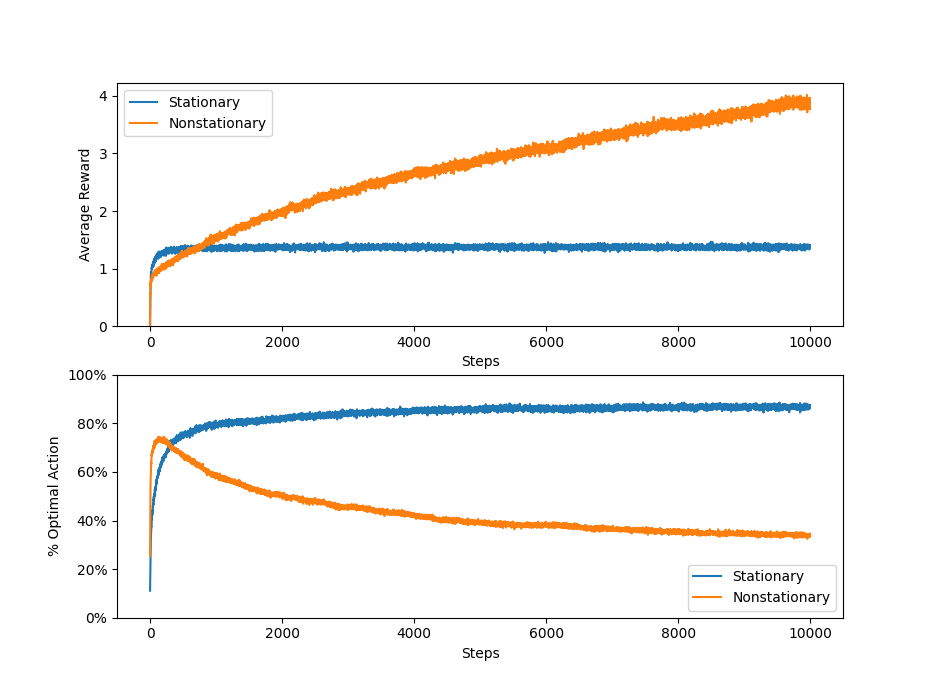
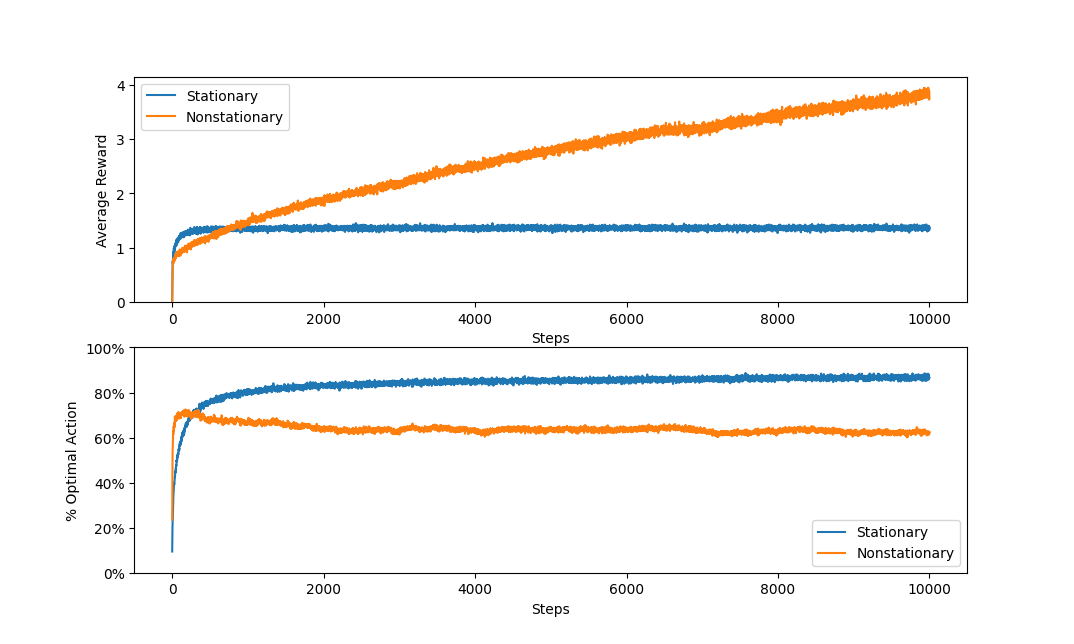
add stepsize and environment comparisons

diff --git a/egreedy.py b/egreedy.py
@@ -7,9 +7,10 @@ import matplotlib.ticker as mtick
 
 class eGreedy:
 
-    def __init__(self, environment, epsilon=0.0) -> None:
+    def __init__(self, environment, epsilon=0.0, stepsize=None):
         self.environment = environment
         self.epsilon = epsilon
+        self.stepsize = stepsize
         self.estimates = np.zeros(self.environment.arms)  # estimated q
         self.times_taken = np.zeros(self.environment.arms)  # n
 
@@ -42,19 +43,23 @@ class eGreedy:
 
         return action
 
-    def update_estimates(self, reward: float, action) -> None:
+    def update_estimates(self, reward: float, action):
         """Update rule:
-            q_(n+1) = q_n + 1/n * (r_n - q_n)
-            estimate += (reward - estimate) / n
+            estimate +=  stepsize * (reward - estimate)
 
         Args:
             reward (float): nth reward
             action (int): nth action
         """
-        self.times_taken[action] += 1  # update n
-        self.estimates[action] += (reward - self.estimates[action]) / self.times_taken[action]  # update q
+        if self.stepsize:
+            # constant stepsize: exponential recency weighted average (ERWA)
+            self.estimates[action] += self.stepsize * (reward - self.estimates[action])
+        else:
+            # sample average stepsize: stepsize = 1/n
+            self.times_taken[action] += 1  # update n
+            self.estimates[action] += (reward - self.estimates[action]) / self.times_taken[action]  # update q
 
-    def reset(self) -> None:
+    def reset(self):
         """Reset to initial values
         """
         self.estimates = np.zeros(self.environment.arms)
@@ -69,6 +74,10 @@ def run_experiment(agents: list[eGreedy], environment, steps=1000):
         agents (list[eGreedy]): eGreedy agents with different epsilon values.
         environment (Environment): Defaults to 10-arm testbed with 2000 runs.
         steps (int, optional): Number of time steps per run. Defaults to 1000.
+
+    Returns:
+        average_reward (numpy.ndarray): xy plot for number of steps vs average reward
+        optimal_pulls (numpy.ndarray): xy plot for number of steps vs % optimal action
     """
     average_reward = np.zeros((steps, len(agents)))
     optimal_pulls = np.zeros((steps, len(agents)))
@@ -103,44 +112,47 @@ def run_experiment(agents: list[eGreedy], environment, steps=1000):
 
     return average_reward, optimal_pulls
 
-    # graph_results(average_reward, optimal_pulls, agents)
 
-
-def graph_results(average_reward, optimal_pulls, eps: list[eGreedy], save_loc):
+def graph_results(average_reward, optimal_pulls, legend, save_loc):
     """Graph results based on Figure 2.2 of the textbook
 
     Args:
-        average_reward (numpy.ndarray): xy plot for number of steps vs average reward
-        optimal_pulls (numpy.ndarray): xy plot for number of steps vs % optimal action
-        eps (list[eGreedy]): different epsilon values
+        average_reward (list[numpy.ndarray]): list of xy plots for number of steps vs average reward
+        optimal_pulls (list[numpy.ndarray]): list of xy plots for number of steps vs % optimal action
+        legend (list[eGreedy | str]): legend for the graph
         save_loc (str): location to save the figure
     """
 
     fig, (ax1, ax2) = plt.subplots(2)
 
     # Graph 2.2: Average Reward
-    ax1.plot(average_reward)
+    for line in average_reward:
+        ax1.plot(line)
     ax1.set_ylabel("Average Reward")
     ax1.set_ylim(bottom=0)
     ax1.set_xlabel("Steps")
-    ax1.legend(eps, loc="lower right")
+    ax1.legend(legend)
 
     # Graph 2.2: % Optimal Action
-    ax2.plot(optimal_pulls)
+    for line in optimal_pulls:
+        ax2.plot(line)
 
     # add percent symbols to y axis    
-    yticks = mtick.PercentFormatter(xmax=1)
-    ax2.yaxis.set_major_formatter(yticks)
+    y_ticks = mtick.PercentFormatter(xmax=1)
+    ax2.yaxis.set_major_formatter(y_ticks)
     ax2.set_ylim(0, 1)
 
     ax2.set_ylabel("% Optimal Action")
     ax2.set_xlabel("Steps")
-    ax2.legend(eps, loc="lower right")
+    ax2.legend(legend)
 
     plt.show()
-    # fig.savefig(save_loc)
+    fig.savefig(save_loc)
 
-def run_stationary():
+
+def compare_stationary_eps():
+    """Compare different epsilon values in a stationary environment
+    """
     environment = Environment()  # can change # of runs here (default 2000)
     agents = []
     epsilon_vals = [0.1, 0.01, 0]
@@ -149,18 +161,9 @@ def run_stationary():
     # run the experiment!!
     print("Running Experiment...")
     average_reward, optimal_pulls = run_experiment(agents, environment)  # can change # of steps here (default 1000)
-    graph_results(average_reward, optimal_pulls, agents, "figures/2.2_comparison.png")
+    graph_results([average_reward], [optimal_pulls], agents, "figures/2.2_comparison.png")
     print()
 
-
-def run_nonstationary():
-    environment = Environment(arms=4, stationary=False, decay=0.05)
-    agents = [eGreedy(environment, 0.1)]  # e = 0.1
-    # run the experiment!!
-    print("Running Experiment...")
-    average_reward, optimal_pulls = run_experiment(agents, environment)
-    graph_results(average_reward, optimal_pulls, agents, "figures/nonstationary.png")
-    print()
 
 def compare_envs():
     """Compare stationary and nonstationary environments with 10000 steps and 0.1 epsilon
@@ -172,38 +175,36 @@ def compare_envs():
     n_reward, n_optimal = run_experiment([eGreedy(nonstationary_env, 0.1)], nonstationary_env, steps=10000)
     print()
 
-    # plot graph
-    fig, (ax1, ax2) = plt.subplots(2)
+    average_reward = [s_reward, n_reward]
+    optimal_pulls = [s_optimal, n_optimal]
+    legend = ["Stationary", "Nonstationary"]
+    save_loc = "figures/egreedy_environment_comparison.png"
 
-    # average reward
-    ax1.plot(s_reward)
-    ax1.plot(n_reward)
-    ax1.set_ylabel("Average Reward")
-    ax1.set_ylim(bottom=0)
-    ax1.set_xlabel("Steps")
-    ax1.legend(["Stationary", "Nonstationary"])
+    graph_results(average_reward, optimal_pulls, legend, save_loc)
 
-    # % optimal action
-    ax2.plot(s_optimal)
-    ax2.plot(n_optimal)
 
-    # add percent symbols to y axis
-    yticks = mtick.PercentFormatter(xmax=1)
-    ax2.yaxis.set_major_formatter(yticks)
-    ax2.set_ylim(0, 1)
+def compare_ns_stepsizes():
+    """Compare ERWA and sample average stepsize for non-stationary environment with 10000 steps and 0.1 epsilon
+    """
+    env = Environment(arms=4, stationary=False, decay=0.05)
+    print("Running Experiment...")
+    sa_reward, sa_optimal = run_experiment([eGreedy(env, 0.1, None)], env, steps=10000)
+    env.reset()
+    erwa_reward, erwa_optimal = run_experiment([eGreedy(env, 0.1, 0.1)], env, steps=10000)
+    print()
 
-    ax2.set_ylabel("% Optimal Action")
-    ax2.set_xlabel("Steps")
-    ax2.legend(["Stationary", "Nonstationary"])
+    average_reward = [sa_reward, erwa_reward]
+    optimal_pulls = [sa_optimal, erwa_optimal]
+    legend = ["stepsize = 1/n", "stepsize = 0.1"]
+    save_loc = "figures/nonstationary_stepsize_comparison.png"
 
-    plt.show()
-    fig.savefig("figures/egreedy_environment_comparison.png")
+    graph_results(average_reward, optimal_pulls, legend, save_loc)
 
 
 def main():
-    # run_stationary()
-    # run_nonstationary()
-    compare_envs()
+    compare_stationary_eps()
+    # compare_envs()
+    # compare_ns_stepsizes()
 
 
 if __name__ == "__main__":
